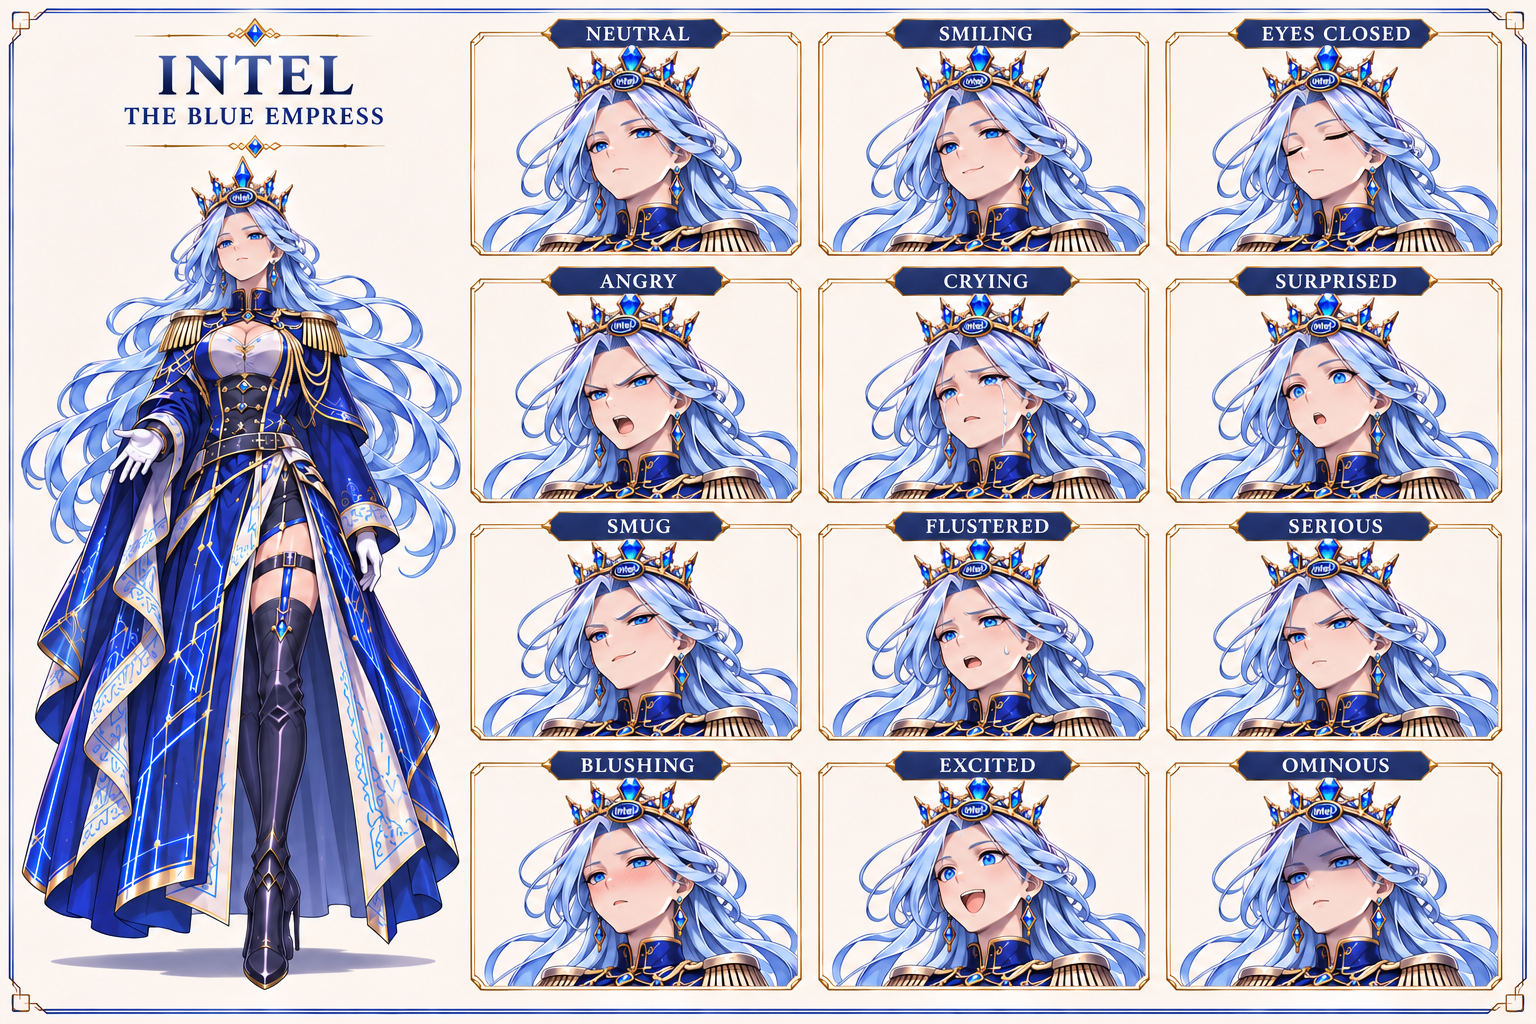
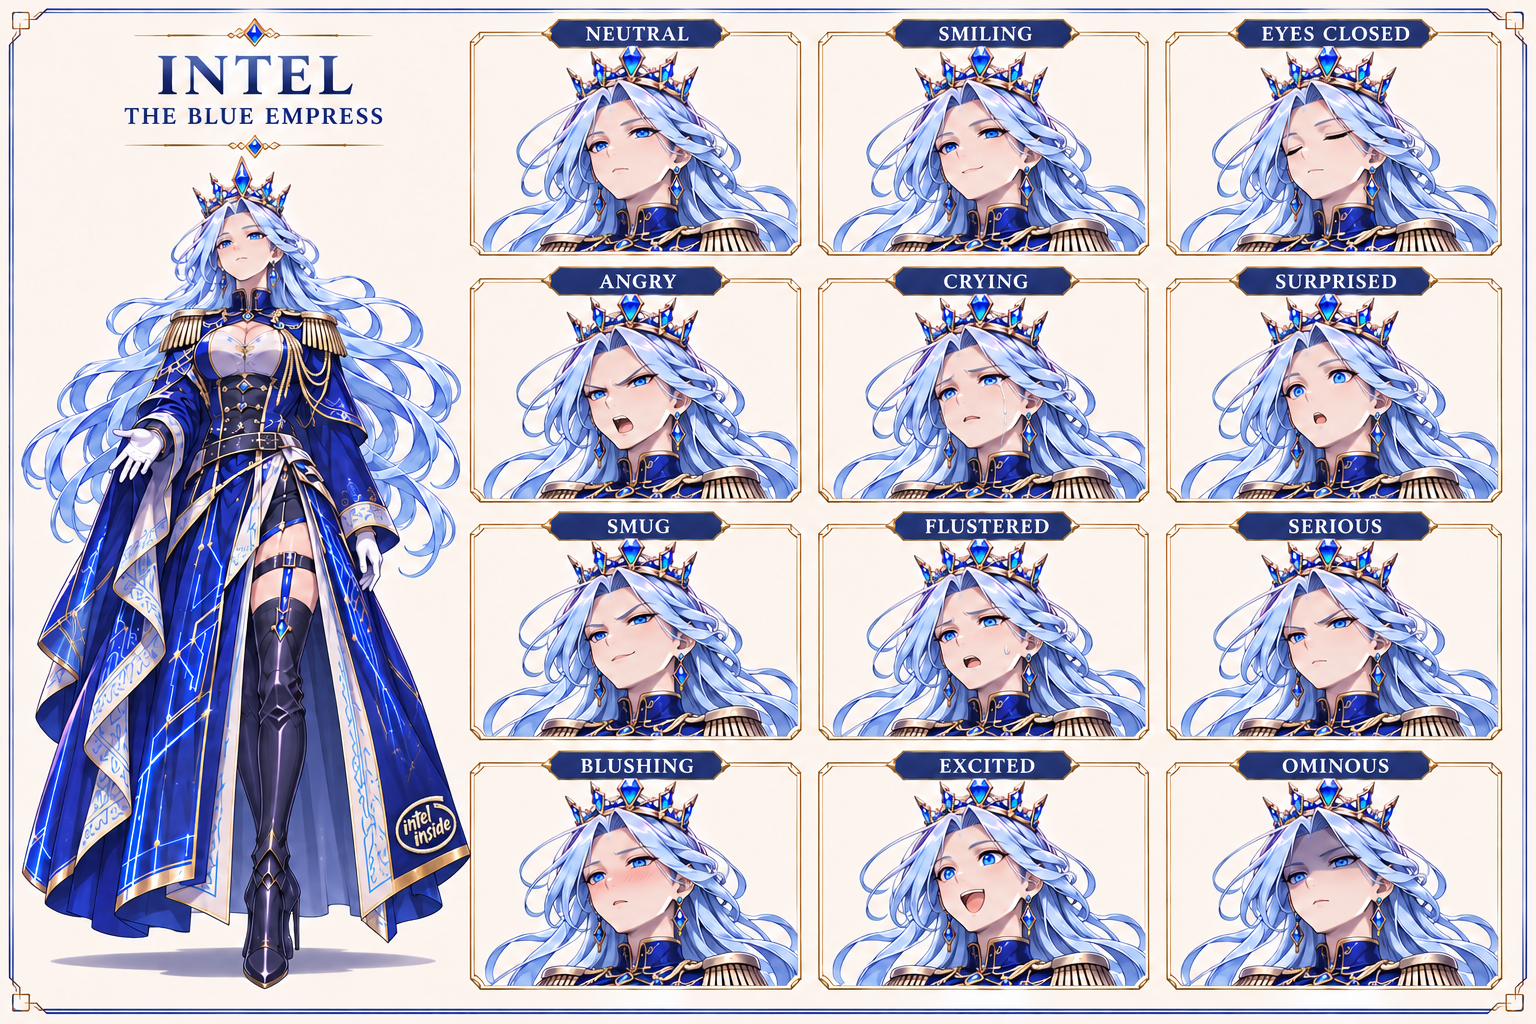
Restore the Blue Empress crown and add Intel Inside skirt embroidery

diff --git a/characters/intel/character_sheet.prompt.md b/characters/intel/character_sheet.prompt.md
@@ -1,6 +1,6 @@
 # Intel illustration generation record
 
-The built-in image generator produced the initial artwork and the crown-badge revisions.
+The built-in image generator produced the initial artwork and later costume revisions.
 
 ## Model sheet
 
@@ -31,13 +31,13 @@ BLUSHING | EXCITED | OMINOUS
 
 Distinguish all 12 clearly. Neutral is relaxed with open eyes; smiling is warm; eyes closed is calmly resting; angry has tight brows and an open sharp retort; crying has visible tears; surprised has wide eyes and a small open mouth; smug has one corner of the mouth raised; flustered has anxious brows and a small sweat drop; serious is alert with a level mouth; blushing is visibly flushed with a shy look; excited is an energetic delighted expression with bright eyes; ominous is quiet and shadowed, with a steady intimidating gaze. Use detailed colored anime linework and cel shading that match Image 1. Use only the nameplate and 12 exact English labels, with a crisp simple typeface. Keep every cell and label separate and readable. No other characters, layout panels, logos, watermark, or scenery.
 
-## Crown-badge revisions
+## Earlier crown-badge revisions
 
 The [archived original reference card](https://github.com/hevangel/silicon_wars_anime_girls/blob/d75dd93d8dbd2589fa7fe947df27eb1396df94b1/characters/intel/reference_card.jpg) supplied the Intel logo. The edits targeted the corresponding pre-badge artwork linked above.
 
 ### Current model sheet
 
-[Updated model sheet](character_sheet.png)
+[Crown-badge model sheet](https://github.com/hevangel/silicon_wars_anime_girls/blob/53c6864bd92fc9c848d47acc3fda81f9b72938d5/characters/intel/character_sheet.png)
 
 Image 1 is the actual artwork to edit. Image 2 is the archived Intel card for the Intel logo ONLY. Make one localized edit to Image 1: mount a small, legible deep-sapphire blue enamel oval badge with a fine gold rim onto the front brow band of Intel's crown, immediately under the large central sapphire jewel and above her hairline. Inside the blue oval, reproduce the archived card's white lowercase Intel wordmark spelled exactly "intel", with the familiar white orbital swoosh, like the badge in Image 2. This is a tiny physical crown emblem, scaled like jewelry, with perspective and shading appropriate to the angle. Keep the central sapphire intact and do not cover her forehead or hair. Retain Image 1's exact art style, framing, expression, face, light-blue hair, blue-and-gold imperial uniform, jewelry, all crown spires and sapphire crystals, scenery, palette, borders, layout, and existing headings. No extra branding elsewhere.
 
@@ -45,7 +45,7 @@ This is the original four-view character model sheet with three expression portr
 
 ### Current expression sheet
 
-[Updated expression sheet](expressions.png)
+[Crown-badge expression sheet](https://github.com/hevangel/silicon_wars_anime_girls/blob/53c6864bd92fc9c848d47acc3fda81f9b72938d5/characters/intel/expressions.png)
 
 Image 1 is the actual artwork to edit. Image 2 is the archived Intel card for the Intel logo ONLY. Make one localized edit to Image 1: mount a small, legible deep-sapphire blue enamel oval badge with a fine gold rim onto the front brow band of Intel's crown, immediately under the large central sapphire jewel and above her hairline. Inside the blue oval, reproduce the archived card's white lowercase Intel wordmark spelled exactly "intel", with the familiar white orbital swoosh, like the badge in Image 2. This is a tiny physical crown emblem, scaled like jewelry, with perspective and shading appropriate to the angle. Keep the central sapphire intact and do not cover her forehead or hair. Retain Image 1's exact art style, framing, expression, face, light-blue hair, blue-and-gold imperial uniform, jewelry, all crown spires and sapphire crystals, scenery, palette, borders, layout, and existing headings. No extra branding elsewhere.
 
@@ -53,8 +53,36 @@ This is the original 12-expression sheet. Apply the same crown emblem to ALL twe
 
 ### Current reference card
 
-[Updated reference card](reference_card.jpg)
+[Crown-badge reference card](https://github.com/hevangel/silicon_wars_anime_girls/blob/53c6864bd92fc9c848d47acc3fda81f9b72938d5/characters/intel/reference_card.jpg)
 
 Image 1 is the actual artwork to edit. Image 2 is the archived Intel card for the Intel logo ONLY. Make one localized edit to Image 1: mount a small, legible deep-sapphire blue enamel oval badge with a fine gold rim onto the front brow band of Intel's crown, immediately under the large central sapphire jewel and above her hairline. Inside the blue oval, reproduce the archived card's white lowercase Intel wordmark spelled exactly "intel", with the familiar white orbital swoosh, like the badge in Image 2. This is a tiny physical crown emblem, scaled like jewelry, with perspective and shading appropriate to the angle. Keep the central sapphire intact and do not cover her forehead or hair. Retain Image 1's exact art style, framing, expression, face, light-blue hair, blue-and-gold imperial uniform, jewelry, all crown spires and sapphire crystals, scenery, palette, borders, layout, and existing headings. No extra branding elsewhere.
 
 This is the original 2:3 reference card. In this large portrait the crown badge must be clearly readable and properly embedded in the crown band. Preserve the exact title "INTEL" and subtitle "THE BLUE EMPRESS", the sapphire crown silhouette and gem arrangement, the wafer in her glove, the background and gold card border.
+
+## Current skirt emblem
+
+The built-in image generator used the pre-badge artwork and [Intel’s 1991 campaign artwork](https://timeline.intel.com/1991/inside-intel-inside) to restore the sapphire crown and place the embroidered Intel Inside emblem at the lower outer corner of her left front skirt panel.
+
+### Current model sheet
+
+Input [Original model sheet](https://github.com/hevangel/silicon_wars_anime_girls/blob/d3f5842277b0356693d3c54f49c9366072737076/characters/intel/character_sheet.png). Output [Updated model sheet](character_sheet.png).
+
+Edit Image 1, Intel's original logo-free model sheet. Image 2 is Intel's historic ad for logo shape only. Restore and preserve the original logo-free sapphire crystal crown exactly as shown in the pre-badge illustration. Its gold brow band, pointed sapphire jewels and silhouette are intact, with no emblem, nameplate, or lettering on it. Intel is the same adult Blue Empress with flowing icy light-blue hair, sapphire eyes, sapphire drop earrings, her royal-blue and cream imperial military coat with gold epaulettes, white gloves and dark tall boots. Add the classic 1991 Intel Inside mark as a small readable ivory-thread embroidered logo directly on the blue fabric at the lower outer corner of her own left front skirt panel (viewer right in front view), just above the gold hem. Copy the historic stacked lowercase "intel" / "inside" words enclosed by the broken oval swoosh shown in the large blue logo in the official ad reference. Show the mark only on that one corner of the skirt where that surface faces the viewer. Fit the embroidery to the cloth and keep both words legible. No logo elsewhere.
+
+Change only the skirt emblem. Preserve Image 1's composition and framing, exact headings, original face, clothes, and artwork style. Keep all four equal-height full-body views FRONT, THREE-QUARTER, SIDE, BACK, the three close-ups COMPOSED, STERN, SURPRISED, and the palette in the original positions. Show the one left-skirt mark in the FRONT and THREE-QUARTER figures where the same corner is visible. Side/back and close-up portraits stay faithful to the original artwork. Landscape 3:2.
+
+### Current expression sheet
+
+Input [Original expression sheet](https://github.com/hevangel/silicon_wars_anime_girls/blob/d3f5842277b0356693d3c54f49c9366072737076/characters/intel/expressions.png). Output [Updated expression sheet](expressions.png).
+
+Edit Image 1, Intel's original logo-free expression sheet. Image 2 is Intel's historic ad for logo shape only. Restore and preserve the original logo-free sapphire crystal crown exactly as shown in the pre-badge illustration. Its gold brow band, pointed sapphire jewels and silhouette are intact, with no emblem, nameplate, or lettering on it. Intel is the same adult Blue Empress with flowing icy light-blue hair, sapphire eyes, sapphire drop earrings, her royal-blue and cream imperial military coat with gold epaulettes, white gloves and dark tall boots. Add the classic 1991 Intel Inside mark as a small readable ivory-thread embroidered logo directly on the blue fabric at the lower outer corner of her own left front skirt panel (viewer right in front view), just above the gold hem. Copy the historic stacked lowercase "intel" / "inside" words enclosed by the broken oval swoosh shown in the large blue logo in the official ad reference. Show the mark only on that one corner of the skirt where that surface faces the viewer. Fit the embroidery to the cloth and keep both words legible. No logo elsewhere.
+
+Change only the lower corner of the skirt on the single standing figure on the left. Preserve all twelve separately framed expressions, faces, unbranded crowns, exact headings and existing English labels with the original framing and layout. The twelve head-and-shoulder portraits should remain visually identical to Image 1. Landscape 3:2, retain the existing pale background and decorative frame.
+
+### Current reference card
+
+Inputs [Original portrait](https://github.com/hevangel/silicon_wars_anime_girls/blob/d3f5842277b0356693d3c54f49c9366072737076/characters/intel/reference_card.jpg) and [original model sheet](https://github.com/hevangel/silicon_wars_anime_girls/blob/d3f5842277b0356693d3c54f49c9366072737076/characters/intel/character_sheet.png). Output [Full-length reference card](reference_card.jpg).
+
+Regenerate a portrait 2:3 reference card for INTEL, THE BLUE EMPRESS. Image 1 is her original logo-free portrait card for face, pose, costume, dramatic blue-lit architecture, the wafer held in her glove, blue-and-gold frame and bottom title. Image 2 is her pre-badge full-body turnaround for the exact full uniform, skirt split, and black boots. Image 3 is Intel's historic ad for logo shape only. Restore and preserve the original logo-free sapphire crystal crown exactly as shown in the pre-badge illustration. Its gold brow band, pointed sapphire jewels and silhouette are intact, with no emblem, nameplate, or lettering on it. Intel is the same adult Blue Empress with flowing icy light-blue hair, sapphire eyes, sapphire drop earrings, her royal-blue and cream imperial military coat with gold epaulettes, white gloves and dark tall boots. Add the classic 1991 Intel Inside mark as a small readable ivory-thread embroidered logo directly on the blue fabric at the lower outer corner of her own left front skirt panel (viewer right in front view), just above the gold hem. Copy the historic stacked lowercase "intel" / "inside" words enclosed by the broken oval swoosh shown in the large blue logo in the official ad reference. Show the mark only on that one corner of the skirt where that surface faces the viewer. Fit the embroidery to the cloth and keep both words legible. No logo elsewhere.
+
+Pull the camera back to a dramatic, composed full-body three-quarter portrait from crown tip to boots with all of the skirt hem visible. Put the visible embroidered "intel inside" logo near the bottom viewer-right outer corner of the royal-blue skirt panel as the only logo. Keep it modest in scale, bright enough to read against the cloth, and fully inside the picture well above the nameplate. Keep her waist and face proportional and render the crown unbranded as in Image 1. Preserve the cinematic blue-and-gold palette, tall dark palace setting, gold card border and a compact bottom nameplate with exactly "INTEL" and "THE BLUE EMPRESS". No other text except the small garment logo.

diff --git a/characters/intel/art_prompt.md b/characters/intel/art_prompt.md
@@ -5,11 +5,11 @@ Create an anime character reference sheet for Intel, the adult Blue Empress of *
 ## Continuity lock
 
 - **Face and hair** · Composed, commanding face, sapphire-blue eyes, and long flowing light-blue hair with icy sky-blue highlights and soft blue shadows.
-- **Crown and jewelry** · Pointed metallic crown set with faceted sapphire-blue crystals, gold trim, and sapphire drop earrings. Center a small blue enamel oval with the white lowercase Intel wordmark and orbital swoosh beneath the central sapphire.
-- **Uniform** · High-collared royal-blue imperial military coat, cream-white front and lining, gold-fringed epaulettes, layered gold cords, tailored double-breasted waist, and long split panels embroidered with subtle blue circuitry. White gloves and tall dark military boots.
+- **Crown and jewelry** · Pointed metallic crown set with faceted sapphire-blue crystals, gold trim, and sapphire drop earrings. Keep the original gold brow band and sapphire arrangement free of lettering.
+- **Uniform** · High-collared royal-blue imperial military coat, cream-white front and lining, gold-fringed epaulettes, layered gold cords, tailored double-breasted waist, and long split panels embroidered with subtle blue circuitry. White gloves and tall dark military boots. Embroider one small ivory Intel Inside emblem above the gold hem at the lower outer corner of her left front skirt panel.
 - **Body language and prop** · Disciplined and poised. Use a wafer-shaped heirloom when the scene calls for it. Her signature power is x86 Citadel.
 
-For a sheet, render front, three-quarter, side, and back views at the same scale, with the crown tips and boots visible. Include composed, stern, and surprised expressions and a small color palette. For a portrait, frame the crown, light-blue hair, and gold-fringed shoulders. Use detailed manga linework and cel shading.
+For a sheet, render front, three-quarter, side, and back views at the same scale, with the crown tips and boots visible. Include composed, stern, and surprised expressions and a small color palette. For the reference card, frame her full length so the crown and skirt emblem are visible. Use detailed manga linework and cel shading.
 
 Signature line · “I built this kingdom before you counted transistors.”
 

diff --git a/characters/intel/README.md b/characters/intel/README.md
@@ -11,7 +11,7 @@
 Composed and commanding; sapphire blue eyes and long flowing light-blue hair.
 
 ## Clothing and accessories
-Sapphire-crystal crown with a blue oval Intel-logo badge, royal-blue imperial military coat with gold-fringed epaulettes and cream lining, white gloves, and a wafer-shaped heirloom.
+Original sapphire-crystal crown and a royal-blue imperial military coat with gold-fringed epaulettes and cream lining, white gloves, and a wafer-shaped heirloom. A small embroidered Intel Inside logo sits just above the hem at the lower outer corner of her left front skirt panel.
 
 ## Personality
 Proud, disciplined, strategic, wary of decline.
@@ -44,7 +44,7 @@ IBM and the PC ecosystem.
 - [Illustrated character model sheet](character_sheet.png) with turnarounds, expressions, and palette.
 - [Expression sheet](expressions.png) with a full-body pose and 12 facial expressions.
 - [Artwork generation prompts](character_sheet.prompt.md)
-- [Painted reference card](reference_card.jpg).
+- [Full-length reference card](reference_card.jpg) showing the skirt emblem.
 - [Detailed final-anime illustration prompt](art_prompt.md)
 - [Original group illustration archive](../../scratchpad/illustrations.md)
 

diff --git a/bible/story_bible.md b/bible/story_bible.md
@@ -9,7 +9,7 @@ A seinen technology fantasy about corporate personifications whose powers derive
 - **Younger grannies:** DEC (red varsity jacket, interactive-computing hacker), Sun Microsystems (joyful purple Solaris jacket).
 
 ## Strict visual continuity
-- Intel: long light-blue hair, pointed sapphire crown with a blue oval Intel-logo badge, and a royal-blue imperial uniform with gold-fringed epaulettes. Composed, authoritative pose.
+- Intel: long light-blue hair, pointed sapphire crown and a royal-blue imperial uniform with gold-fringed epaulettes. A small Intel Inside emblem sits near the hem of her left front skirt panel. Composed, authoritative pose.
 - AMD: fiery red ponytail, red/black chiplet armor, athletic challenger stance.
 - Nvidia, the Emerald Queen: thick emerald-green braid and a black leather jacket-dress with glowing green circuit seams. She has the greatest raw physical strength of the cast, with powerful arms and naturally proportioned athletic legs.
 - Fairchild: rolled sleeves, red bandana, glasses, working forewoman; do not duplicate Bell Labs' silhouette.
